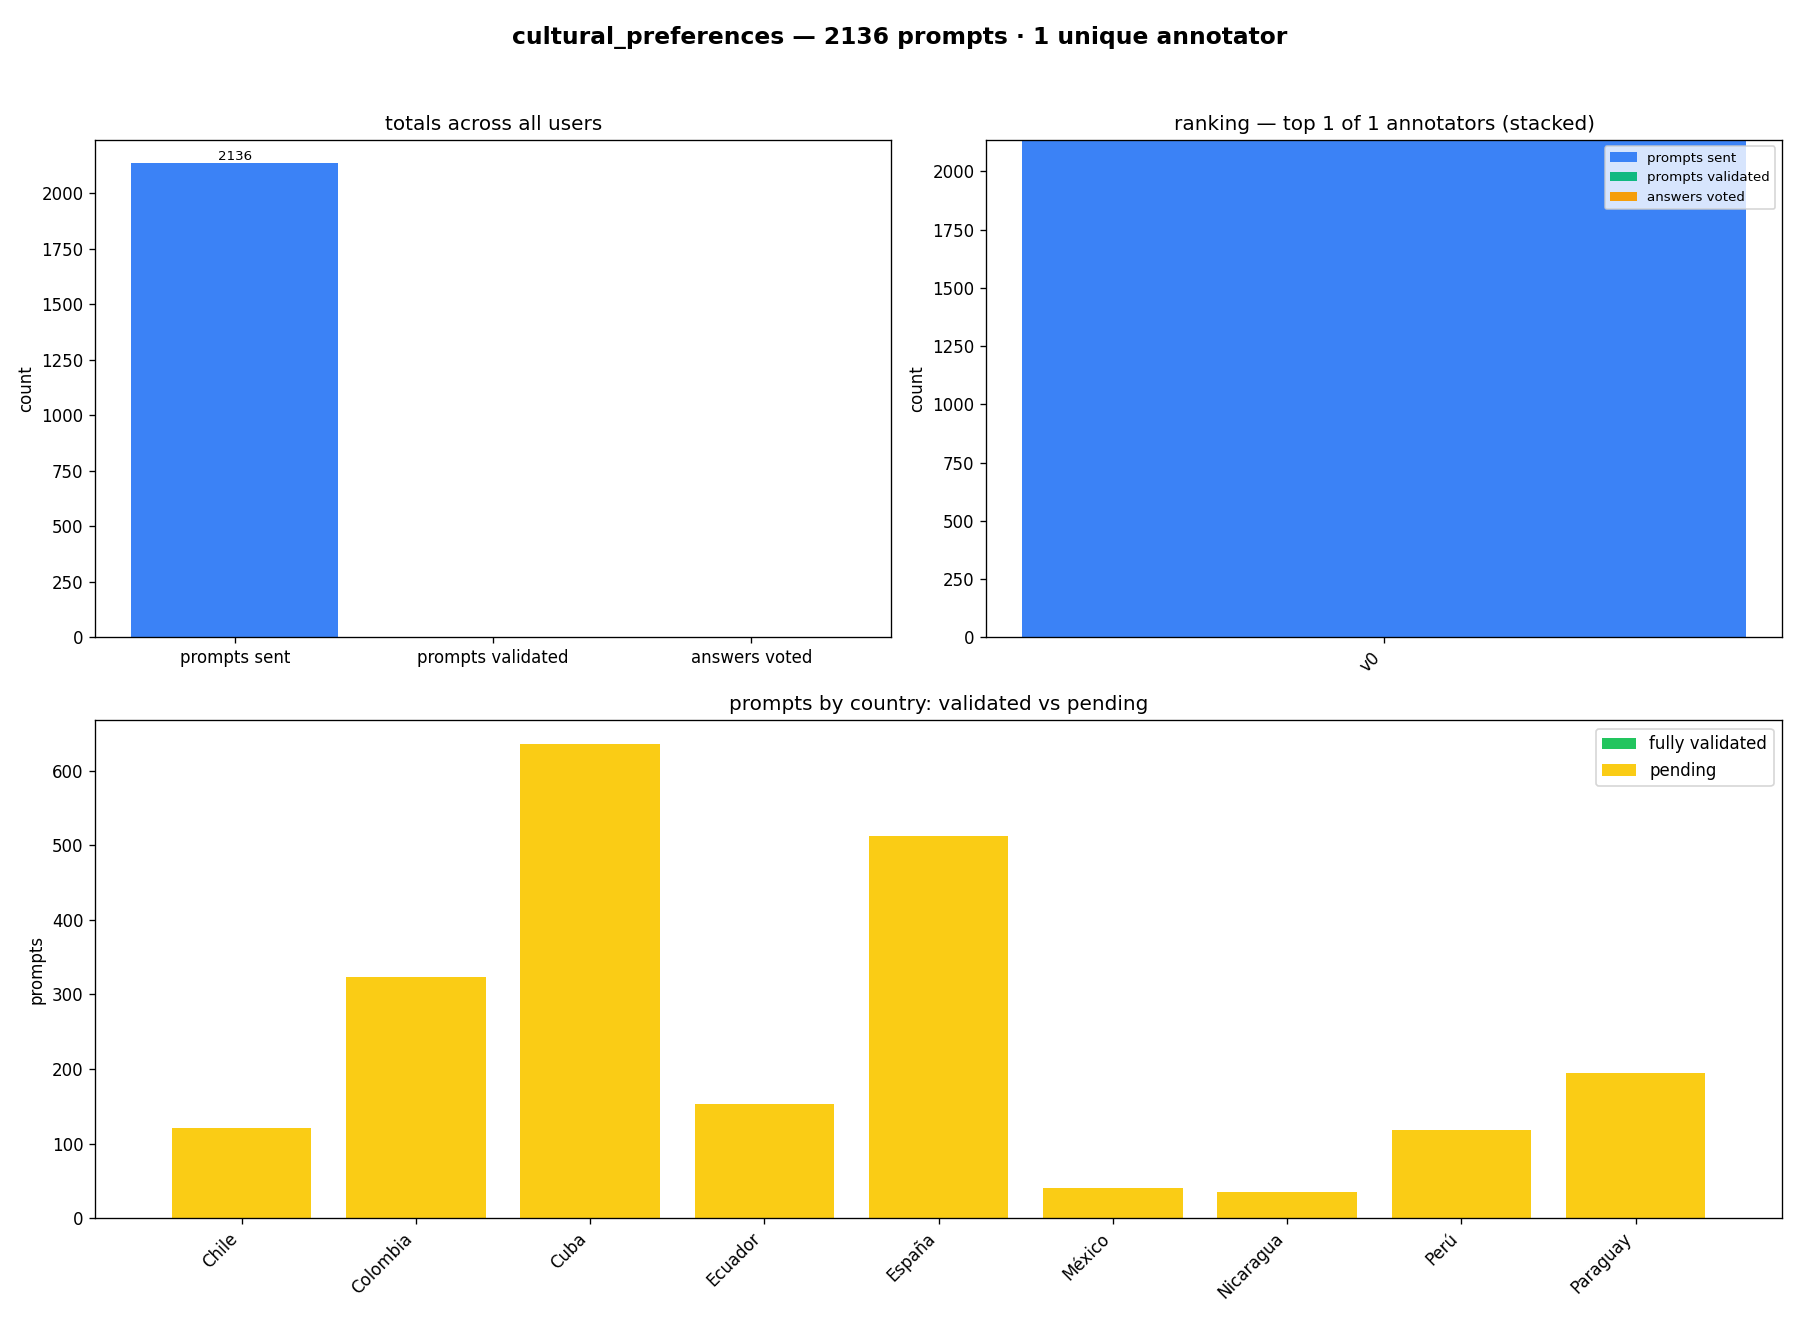
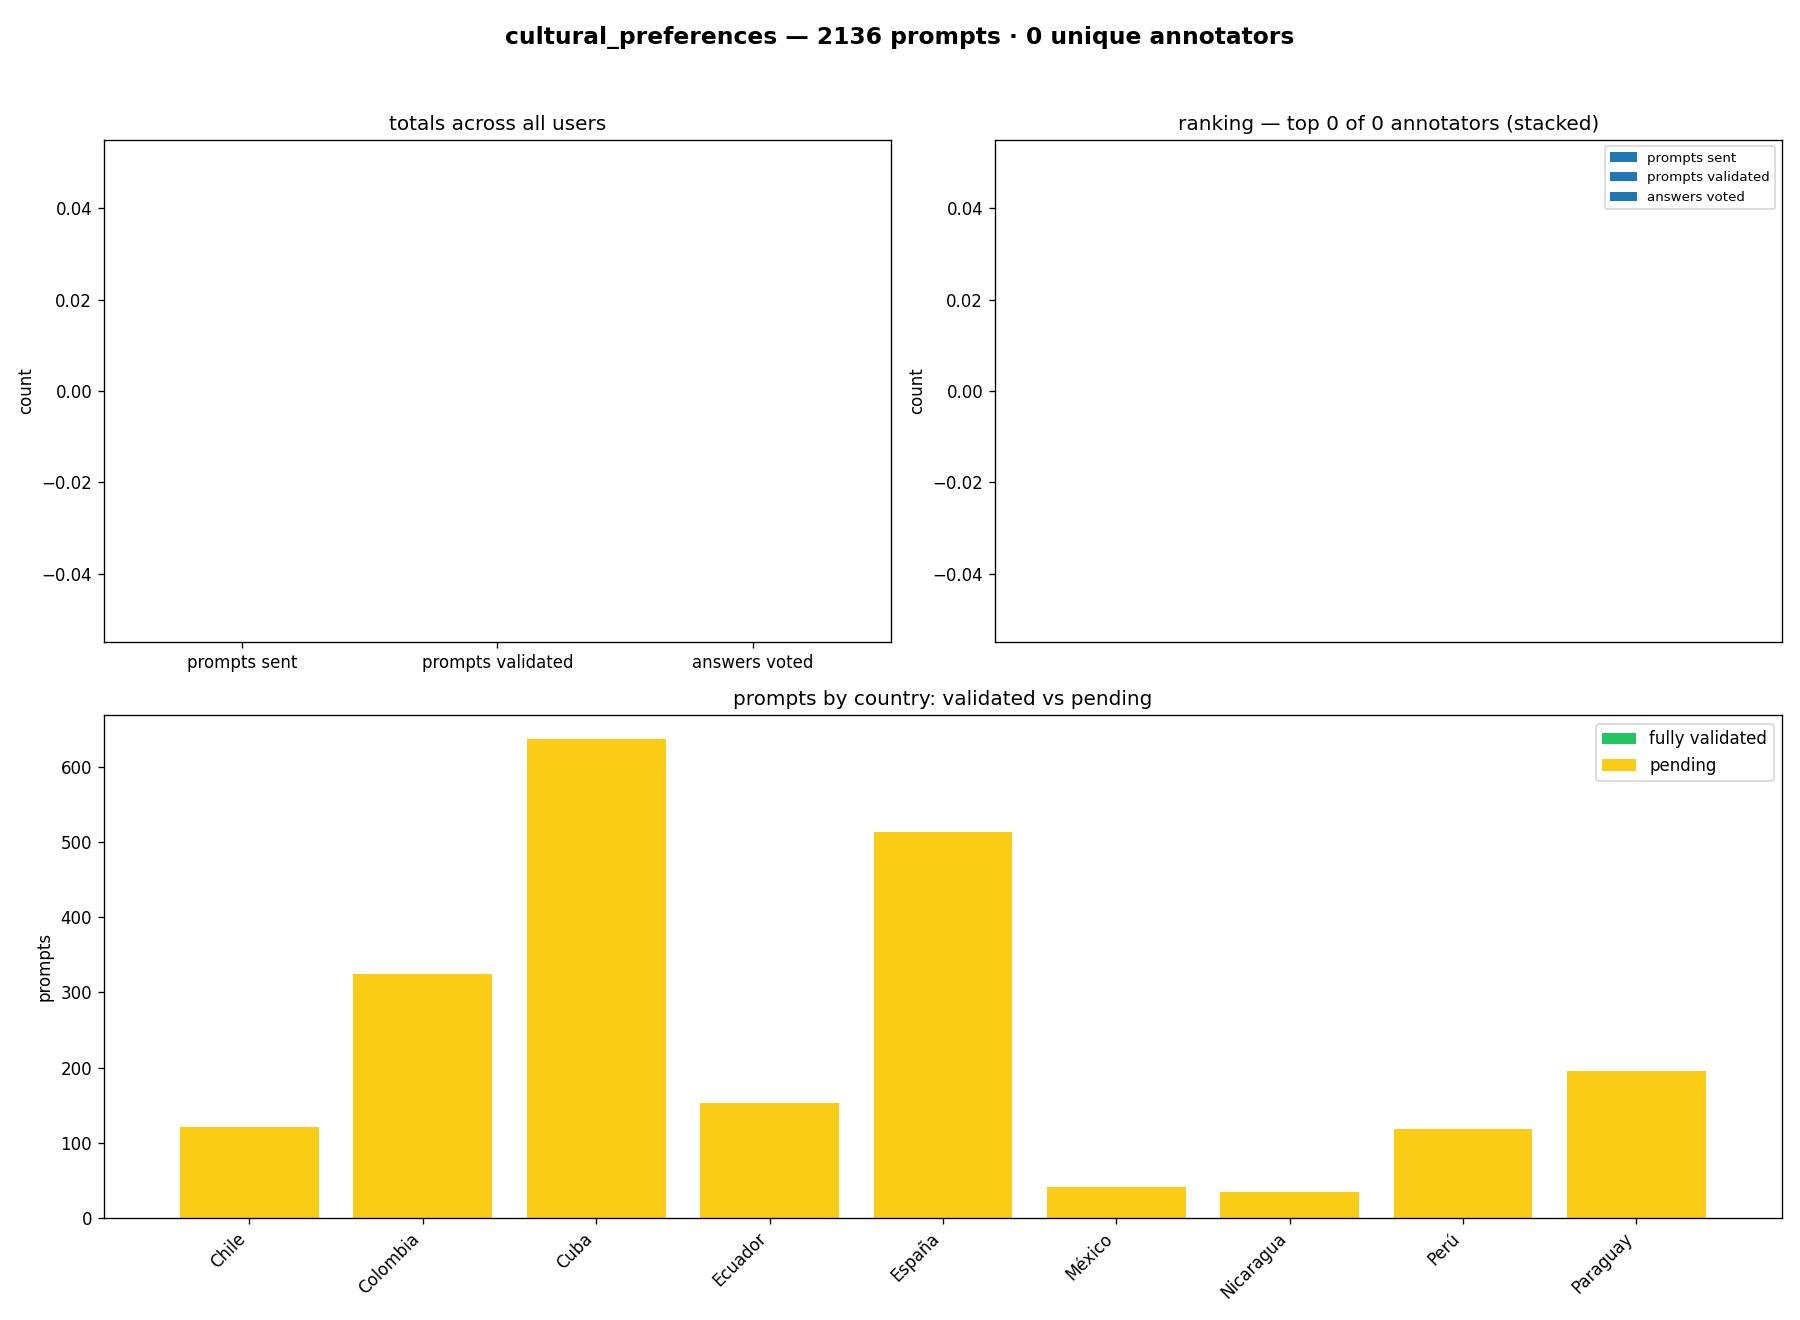
remove email from participants dataset

diff --git a/data/inspect_hf_dataset.py b/data/inspect_hf_dataset.py
@@ -5,7 +5,8 @@ Writes two PNGs into ``data/``:
   * ``participants_overview.png`` — language and country from the
     ``hackathon_participants`` dataset, plus a pie chart per demographic
     question (pronouns, education, field, year of birth, NLP level, first
-    SomosNLP event) joined in from the Eventbrite registration CSV by email.
+    SomosNLP event) joined in from the Eventbrite registration CSV by HF
+    username (case-insensitive — email is no longer pushed to the Hub).
   * ``prompts_overview.png`` — the same views as the app's Leaderboard tab:
     overall totals, the per-user ranking (top 10, stacked), and per-country
     validation status, plus the unique-annotator count.
@@ -50,6 +51,7 @@ from data import (
     load_prompts_df,
     ranking_df,
 )
+from import_participants_info import _order_by_lang, clean_username
 
 REPO_DIR = _REPO_ROOT
 OUT_DIR = REPO_DIR / "data"
@@ -272,8 +274,14 @@ def merge_demographics(
     participants: pd.DataFrame, csv_path: Path | None
 ) -> tuple[pd.DataFrame, list[str]]:
     """Join the Eventbrite demographic answers onto the participants table by
-    email. Returns ``(merged_df, available_question_labels)`` — a question is
-    "available" only if its columns were found and someone answered."""
+    HF username. Returns ``(merged_df, available_question_labels)`` — a
+    question is "available" only if its columns were found and someone
+    answered.
+
+    Earlier versions joined on email, but email is no longer pushed to the
+    Hub (privacy). The HF username lives in both sources, so we derive the
+    cleaned username from the Eventbrite columns the same way
+    ``import_participants_info`` does and use that as the key."""
     if csv_path is None or not Path(csv_path).exists():
         return participants, []
 
@@ -283,7 +291,16 @@ def merge_demographics(
         return participants, []
     hack = raw[raw["Ticket Type"].str.startswith("Hackathon", na=False)].copy()
     hack["Order Date"] = pd.to_datetime(hack["Order Date"], errors="coerce", utc=True)
-    hack["_email"] = hack["Email"].fillna("").astype(str).str.strip()
+
+    # Replicate the importer's HF-username extraction so the join key here
+    # matches what landed in the participants dataset.
+    hf_cols = _order_by_lang(
+        [c for c in hack.columns if "Hugging Face" in c or "HuggingFace" in c]
+    )
+    pick_first = lambda r: next((str(v).strip() for v in r if str(v).strip()), "")
+    hack["_username"] = (
+        hack[hf_cols].fillna("").apply(pick_first, axis=1).apply(clean_username)
+    )
 
     available: list[str] = []
     for label, needles, _norm, _multi in DEMOGRAPHICS:
@@ -292,15 +309,20 @@ def merge_demographics(
         if (hack[label].astype(str).str.strip() != "").any():
             available.append(label)
 
-    # One row per email, latest registration wins — same dedup rule as
-    # import_participants_info.py, so the join lines up with the 86.
+    # One row per username, latest registration wins — same dedup rule as
+    # the importer (which uses case-insensitive matching; mirror that here).
+    hack["_key"] = hack["_username"].str.lower()
+    hack = hack[hack["_key"] != ""]
     demo = (
         hack.sort_values("Order Date")
-        .drop_duplicates("_email", keep="last")
-        .set_index("_email")
+        .drop_duplicates("_key", keep="last")
+        .set_index("_key")
     )
     labels = [d[0] for d in DEMOGRAPHICS]
-    merged = participants.join(demo[labels], on="gmail")
+    # Join on lowercased username so case differences between Eventbrite
+    # answers and the canonical dataset don't break the merge.
+    join_key = participants["username"].str.lower()
+    merged = participants.join(demo[labels], on=join_key.rename("_key"))
     return merged, available
 
 

diff --git a/tests/test_integration.py b/tests/test_integration.py
@@ -55,14 +55,14 @@ PARTICIPANTS_DF = pd.DataFrame(
         # Country filter (#3 from TODO.md) only shows a user prompts grounded
         # in their own country. Tests need ≥3 participants per country we
         # want to "fully validate" a prompt in.
-        {"username": "mariagrandury", "language": "es", "country": "es", "gmail": "maria@x"},
-        {"username": "evan-es",       "language": "es", "country": "es", "gmail": "evan@x"},
-        {"username": "alice-cl",      "language": "es", "country": "cl", "gmail": "alice@x"},
-        {"username": "alice2-cl",     "language": "es", "country": "cl", "gmail": "alice2@x"},
-        {"username": "alice3-cl",     "language": "es", "country": "cl", "gmail": "alice3@x"},
-        {"username": "bruno-br",      "language": "pt", "country": "br", "gmail": "bruno@x"},
-        {"username": "carla-co",      "language": "es", "country": "co", "gmail": "carla@x"},
-        {"username": "diogo-pt",      "language": "pt", "country": "pt", "gmail": "diogo@x"},
+        {"username": "mariagrandury", "language": "es", "country": "es"},
+        {"username": "evan-es",       "language": "es", "country": "es"},
+        {"username": "alice-cl",      "language": "es", "country": "cl"},
+        {"username": "alice2-cl",     "language": "es", "country": "cl"},
+        {"username": "alice3-cl",     "language": "es", "country": "cl"},
+        {"username": "bruno-br",      "language": "pt", "country": "br"},
+        {"username": "carla-co",      "language": "es", "country": "co"},
+        {"username": "diogo-pt",      "language": "pt", "country": "pt"},
     ]
 )
 

diff --git a/seed_datasets.py b/seed_datasets.py
@@ -33,42 +33,36 @@ DUMMY_PARTICIPANTS = [
         "username": "mariagrandury",
         "language": "es",
         "country": "es",
-        "gmail": "[email redacted]",
         "test_score": SEED_PASSED_SCORE,
     },
     {
         "username": "alice-cl",
         "language": "es",
         "country": "cl",
-        "gmail": "[email redacted]",
         "test_score": EMPTY_TEST_SCORE,
     },
     {
         "username": "bruno-br",
         "language": "pt",
         "country": "br",
-        "gmail": "[email redacted]",
         "test_score": EMPTY_TEST_SCORE,
     },
     {
         "username": "carla-co",
         "language": "es",
         "country": "co",
-        "gmail": "[email redacted]",
         "test_score": EMPTY_TEST_SCORE,
     },
     {
         "username": "diogo-pt",
         "language": "pt",
         "country": "pt",
-        "gmail": "[email redacted]",
         "test_score": EMPTY_TEST_SCORE,
     },
     {
         "username": "evan-en",
         "language": "en",
         "country": "es",
-        "gmail": "[email redacted]",
         "test_score": EMPTY_TEST_SCORE,
     },
 ]

diff --git a/tests/test_app_helpers.py b/tests/test_app_helpers.py
@@ -111,9 +111,9 @@ class Translations(unittest.TestCase):
 
 
 _PARTS = pd.DataFrame([
-    {"username": "alice", "language": "es", "country": "es", "gmail": ""},
-    {"username": "bruno", "language": "pt", "country": "br", "gmail": ""},
-    {"username": "weird", "language": "kr", "country": "kr", "gmail": ""},  # unsupported lang
+    {"username": "alice", "language": "es", "country": "es"},
+    {"username": "bruno", "language": "pt", "country": "br"},
+    {"username": "weird", "language": "kr", "country": "kr"},  # unsupported lang
 ])
 
 

diff --git a/import_participants_info.py b/import_participants_info.py
@@ -235,8 +235,11 @@ def build_participants(csv_path: str) -> tuple[pd.DataFrame, pd.DataFrame]:
             f"({len(valid)} participant(s))."
         )
 
+    # ``gmail`` stays in ``valid`` for the missing-HF sidecar / local debugging
+    # but is intentionally NOT included in the participants table that gets
+    # pushed to the Hub — emails shouldn't live in a shared dataset.
     participants = (
-        valid[["username", "language", "country", "gmail"]]
+        valid[["username", "language", "country"]]
         .sort_values(["country", "language", "username"])
         .reset_index(drop=True)
     )

diff --git a/data.py b/data.py
@@ -187,7 +187,9 @@ PARTICIPANTS_FEATURES = Features(
         "username": Value("string"),
         "language": Value("string"),
         "country": Value("string"),
-        "gmail": Value("string"),
+        # Email is intentionally NOT pushed to the Hub. The importer
+        # collects it locally (so the missing-HF report can name attendees)
+        # and inspect_hf_dataset joins demographics on ``username`` instead.
         "test_score": Value("string"),
     }
 )

diff --git a/tests/test_test_tab.py b/tests/test_test_tab.py
@@ -40,7 +40,7 @@ def _prof(username: str) -> SimpleNamespace:
 _PARTS_FRESH = pd.DataFrame(
     [
         {"username": "alice", "language": "es", "country": "es",
-         "gmail": "", "test_score": "{}"},
+         "test_score": "{}"},
     ]
 )
 
@@ -50,7 +50,7 @@ def _parts_with_score(username: str, score: float) -> pd.DataFrame:
     return pd.DataFrame(
         [
             {"username": username, "language": "es", "country": "es",
-             "gmail": "", "test_score": json.dumps({"1": score})},
+             "test_score": json.dumps({"1": score})},
         ]
     )
 

diff --git a/tests/bench_compare.py b/tests/bench_compare.py
@@ -298,8 +298,7 @@ def install_app_stubs() -> None:
     import app
     import data
     def fake_info(username, df=None):
-        return {"username": username, "language": "es",
-                "country": "es", "gmail": ""}
+        return {"username": username, "language": "es", "country": "es"}
     app.participant_info = fake_info
     data.participant_info = fake_info
 

diff --git a/tests/test_data_helpers.py b/tests/test_data_helpers.py
@@ -122,7 +122,7 @@ class ParseTestScore(unittest.TestCase):
 def _participants_with_scores(scores_by_user: dict[str, str]) -> pd.DataFrame:
     return pd.DataFrame(
         [
-            {"username": u, "language": "es", "country": "es", "gmail": "",
+            {"username": u, "language": "es", "country": "es",
              "test_score": s}
             for u, s in scores_by_user.items()
         ]

diff --git a/tests/test_record_test_attempt.py b/tests/test_record_test_attempt.py
@@ -48,7 +48,7 @@ def _participants_df(scores_by_user: dict[str, str]) -> pd.DataFrame:
     return pd.DataFrame(
         [
             {"username": u, "language": "es", "country": "es",
-             "gmail": "", "test_score": scores}
+             "test_score": scores}
             for u, scores in scores_by_user.items()
         ]
     )

diff --git a/CLAUDE.md b/CLAUDE.md
@@ -83,8 +83,14 @@ Both private, owned by `mariagrandury`. Schema is the source of truth in
 
 | Dataset                                | Columns                                                                                                                                         |
 | -------------------------------------- | ----------------------------------------------------------------------------------------------------------------------------------------------- |
-| `mariagrandury/hackathon_participants` | `username`, `language`, `country`, `gmail`, `test_score`                                                                                        |
+| `mariagrandury/hackathon_participants` | `username`, `language`, `country`, `test_score`                                                                                                 |
 | `mariagrandury/cultural_preferences`   | `username`, `language`, `country`, `prompt`, `prompt_validation_{1,2,3}`, `answer_a`, `model_a`, `answer_b`, `model_b`, `answer_chosen_{1,2,3}` |
+
+Email is intentionally NOT in the participants schema: `import_participants_info.py`
+keeps it locally (in the missing-HF sidecar CSV that organisers use to chase
+attendees who didn't fill in their HF handle) but drops it before
+`push_to_hub`. `data/inspect_hf_dataset.py` joins demographics by HF
+username instead of by email.
 
 `test_score` is a JSON-encoded `{attempt_number_str: score_float}` map
 (e.g. `'{"1": 0.85, "2": 0.95}'`); empty sentinel is `"{}"`. It's a string